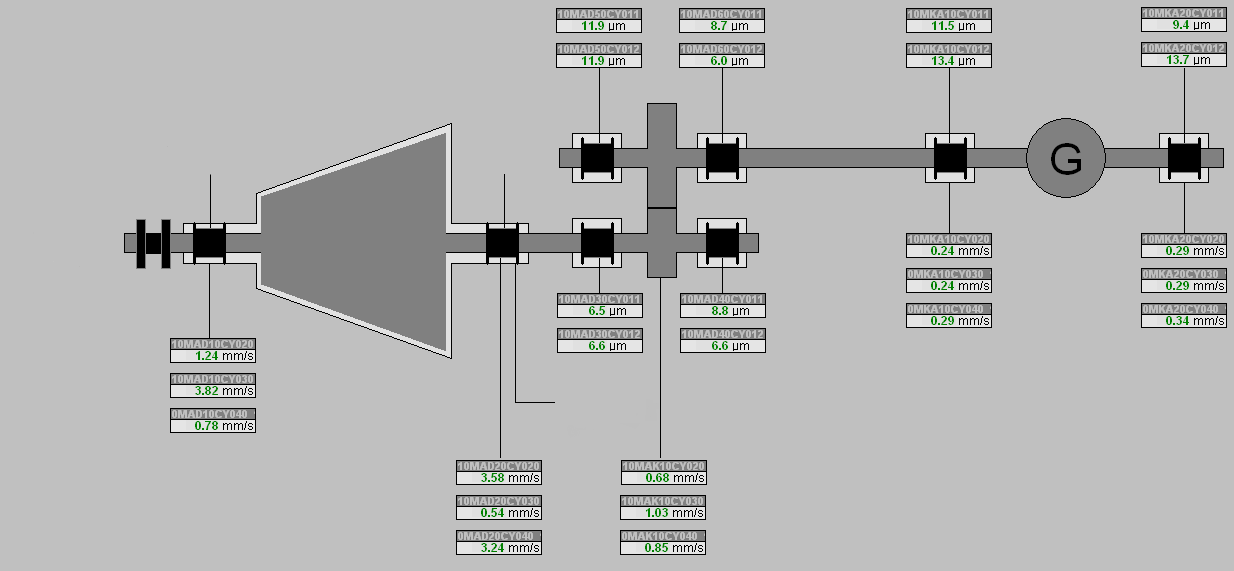
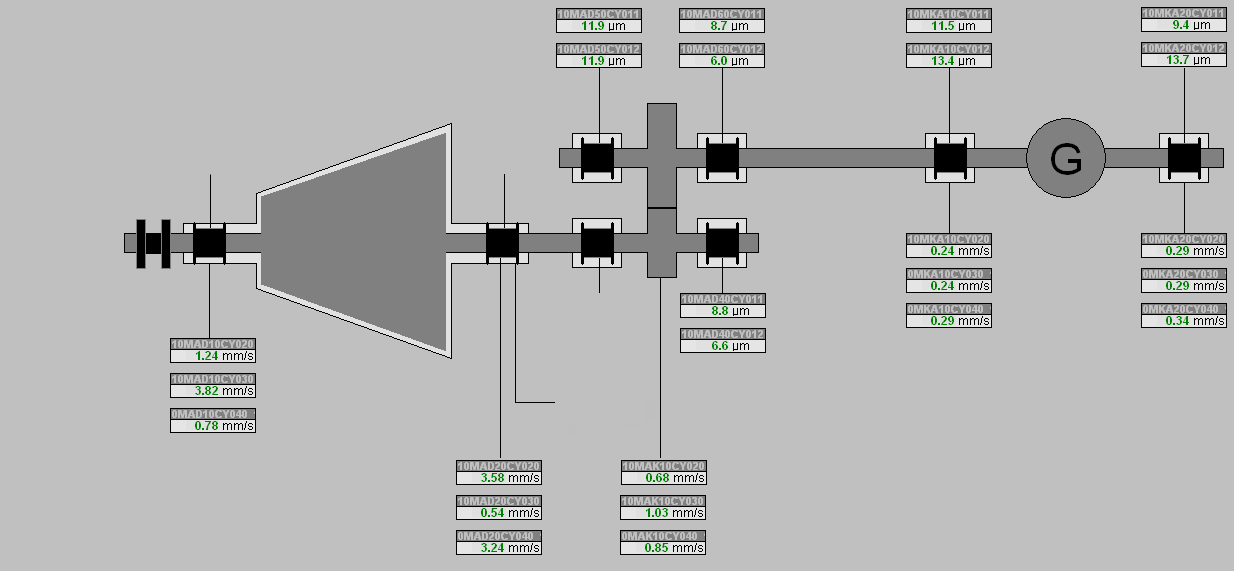
Добавлено два параметра.

Changed region(s): [[0.4311, 0.5061, 0.5235, 0.6252]]

diff --git a/BN/Views/Window/MainWindow.xaml b/BN/Views/Window/MainWindow.xaml
@@ -37,6 +37,8 @@
                     <Border Style="{StaticResource BorderForLabel}"  Margin="150,136,0,0" Background="{Binding bckgrd_10MAD10CY012}"/>
                     <Border Style="{StaticResource BorderForLabel}"  Margin="413,117,0,0" Background="{Binding bckgrd_10MAD20CY011}"/>
                     <Border Style="{StaticResource BorderForLabel}"  Margin="413,138,0,0" Background="{Binding bckgrd_10MAD20CY012}"/>
+                    <Border Style="{StaticResource BorderForLabel}"  Margin="499,269,0,0" Background="{Binding bckgrd_10MAD30CY011}"/>
+                    <Border Style="{StaticResource BorderForLabel}"  Margin="499,290,0,0" Background="{Binding bckgrd_10MAD30CY012}"/>
                     <Label Content="{Binding prm_10MAD10CG012}" Style="{StaticResource Parent_LabelOnImage}" Margin="31,229,0,0" ToolTip="10MAD10CG012"/>
                     <Label Content="{Binding prm_10MAD10CG011}" Style="{StaticResource Parent_LabelOnImage}" Margin="31,208,0,0" ToolTip="10MAD10CG011"/>
                     <Label Content="{Binding prm_10MAD10CG010}" Style="{StaticResource Parent_LabelOnImage}" Margin="31,187,0,0" ToolTip="10MAD10CG010"/>
@@ -45,6 +47,9 @@
                     <Label Content="{Binding prm_10MAD10CY012}" Style="{StaticResource Child_0_LabelOnImage}" Margin="155,131,0,0" ToolTip="10MAD10CY012"/>
                     <Label Content="{Binding prm_10MAD20CY011}" Style="{StaticResource Child_0_LabelOnImage}" Margin="418,111,0,0" ToolTip="10MAD20CY011"/>
                     <Label Content="{Binding prm_10MAD20CY012}" Style="{StaticResource Child_0_LabelOnImage}" Margin="418,133,0,0" ToolTip="10MAD20CY012"/>
+                    <Label Content="{Binding prm_10MAD30CY011}" Style="{StaticResource Child_0_LabelOnImage}" Margin="504,264,0,0" ToolTip="10MAD30CY011"/>
+                    <Label Content="{Binding prm_10MAD30CY012}" Style="{StaticResource Child_0_LabelOnImage}" Margin="504,285,0,0" ToolTip="10MAD30CY012"/>
+
                 </Grid>
             </TabItem>
             <TabItem Header="ГТ-7">

diff --git a/BN/ViewModels/Base/MainWindowViewModel.cs b/BN/ViewModels/Base/MainWindowViewModel.cs
@@ -140,6 +140,20 @@ namespace BN.ViewModels.Base
             get => _bckgrd_10MAD20CY012;
             set => Set(ref _bckgrd_10MAD20CY012, value);
         }
+
+        private string _bckgrd_10MAD30CY011;
+        public string bckgrd_10MAD30CY011
+        {
+            get => _bckgrd_10MAD30CY011;
+            set => Set(ref _bckgrd_10MAD30CY011, value);
+        }
+
+        private string _bckgrd_10MAD30CY012;
+        public string bckgrd_10MAD30CY012
+        {
+            get => _bckgrd_10MAD30CY012;
+            set => Set(ref _bckgrd_10MAD30CY012, value);
+        }
         #endregion
 
         #region Фон для StatusBarst6 
@@ -244,6 +258,20 @@ namespace BN.ViewModels.Base
             set => Set(ref _prm_10MAD20CY012, value);
         }
 
+        private double _prm_10MAD30CY011;
+        public double prm_10MAD30CY011
+        {
+            get => _prm_10MAD30CY011;
+            set => Set(ref _prm_10MAD30CY011, value);
+        }
+
+        private double _prm_10MAD30CY012;
+        public double prm_10MAD30CY012
+        {
+            get => _prm_10MAD30CY012;
+            set => Set(ref _prm_10MAD30CY012, value);
+        }
+
 
         #endregion
 
@@ -327,6 +355,8 @@ namespace BN.ViewModels.Base
                                prm_10MAD10CY012 = rtrn_prm_st6_gr0[1];
                                prm_10MAD20CY011 = rtrn_prm_st6_gr0[2];
                                prm_10MAD20CY012 = rtrn_prm_st6_gr0[3];
+                               prm_10MAD30CY011 = rtrn_prm_st6_gr0[4];
+                               prm_10MAD30CY012 = rtrn_prm_st6_gr0[5];
                                prm_10MAD10CG010 = rtrn_prm_st6_gr1[0];
                                prm_10MAD10CG011 = rtrn_prm_st6_gr1[1];
                                prm_10MAD10CG012 = rtrn_prm_st6_gr1[2];
@@ -336,6 +366,8 @@ namespace BN.ViewModels.Base
                                bckgrd_10MAD10CY012 = bckgrd_st6_gr0[1];
                                bckgrd_10MAD20CY011 = bckgrd_st6_gr0[2];
                                bckgrd_10MAD20CY012 = bckgrd_st6_gr0[3];
+                               bckgrd_10MAD30CY011 = bckgrd_st6_gr0[4];
+                               bckgrd_10MAD30CY012 = bckgrd_st6_gr0[5];
                                bckgrd_10MAD10CG010 = bckgrd_st6_gr1[0];
                                bckgrd_10MAD10CG011 = bckgrd_st6_gr1[1];
                                bckgrd_10MAD10CG012 = bckgrd_st6_gr1[2];
